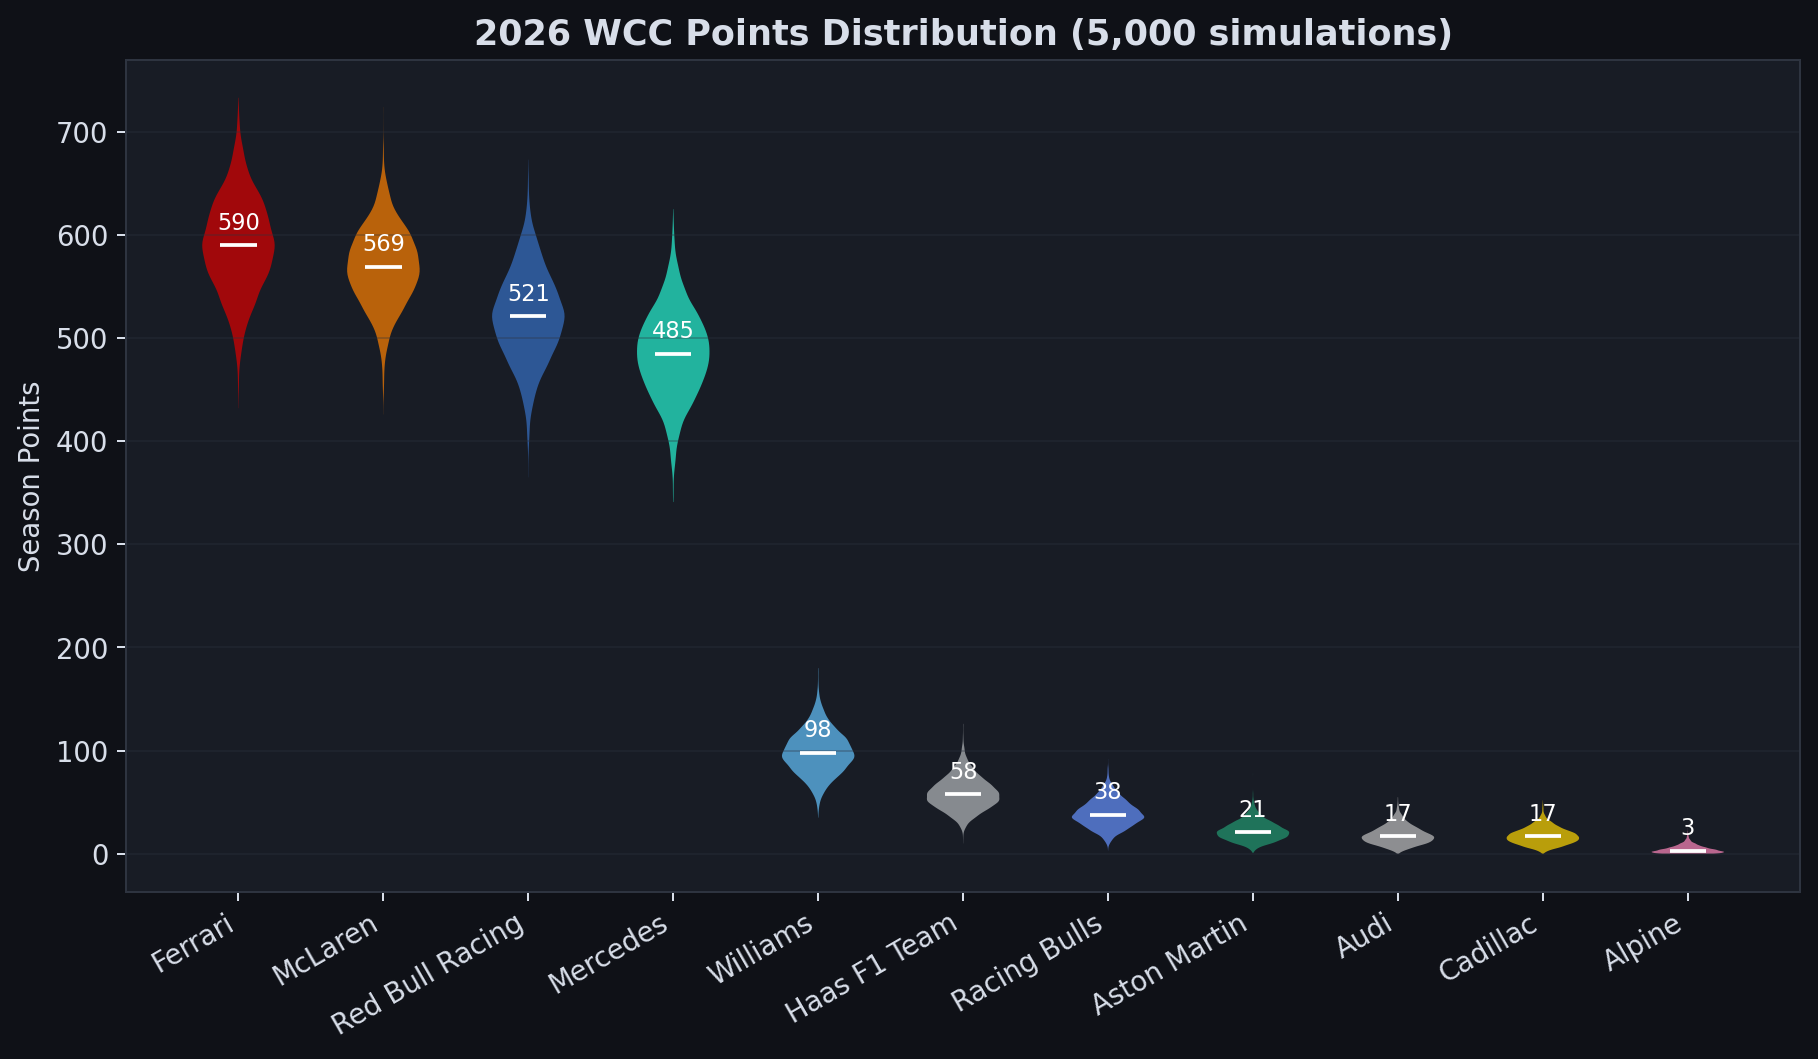
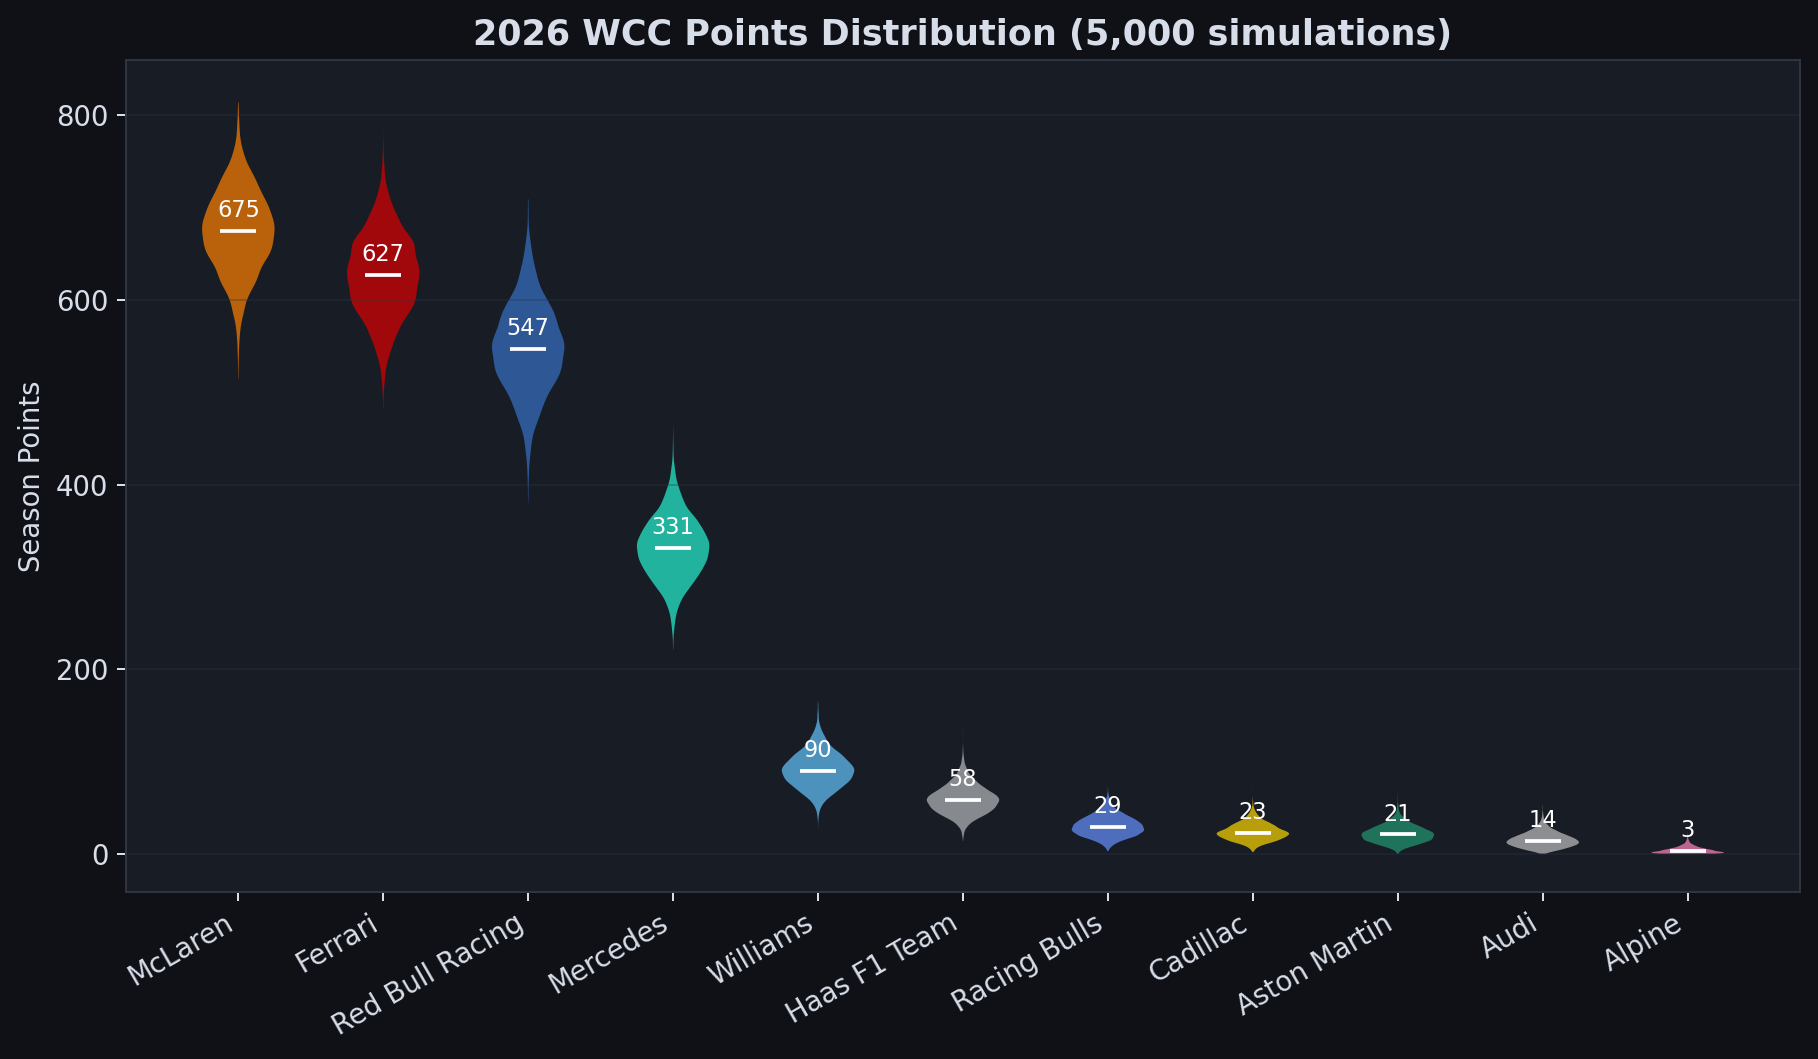
Restore v1 baseline plots and make plot generation optional
Plots now match the v1 baseline results shown in the README.
Plot generation is skipped by default; use --plots flag to regenerate.

diff --git a/main.py b/main.py
@@ -12,6 +12,7 @@ Prediction targets:
 - First Race Winner
 """
 
+import argparse
 import os
 import sys
 import json
@@ -34,10 +35,9 @@ from model import (
     generate_predictions,
     FEATURE_COLS,
 )
-from visualizations import generate_all_plots
 
 
-def main():
+def main(generate_plots=False):
     data_dir = os.path.dirname(__file__)
     race_csv = os.path.join(data_dir, "f1_race_results.csv")
     quali_csv = os.path.join(data_dir, "f1_quali_results.csv")
@@ -94,16 +94,20 @@ def main():
 
     # ── Step 5: Monte Carlo Season Simulation ─────────────────────────────
     print("\n" + "=" * 60)
-    print("Running Monte Carlo season simulation (2,000 seasons)...")
+    print("Running Monte Carlo season simulation (5,000 seasons)...")
     print("=" * 60)
     sim_results = simulate_season(position_model, dnf_model, driver_profiles, n_simulations=5000)
 
     # ── Step 6: Generate Predictions ──────────────────────────────────────
     predictions = generate_predictions(sim_results)
 
-    # ── Step 7: Generate Visualizations ─────────────────────────────────
-    plot_dir = os.path.join(data_dir, "plots")
-    generate_all_plots(sim_results, plot_dir)
+    # ── Step 7: Generate Visualizations (optional) ──────────────────────
+    if generate_plots:
+        from visualizations import generate_all_plots
+        plot_dir = os.path.join(data_dir, "plots")
+        generate_all_plots(sim_results, plot_dir)
+    else:
+        print("\n  Skipping plot generation (use --plots to regenerate)")
 
     # ── Step 8: Save Versioned Predictions ──────────────────────────────
     save_versioned_predictions(data_dir, predictions, sim_results, FEATURE_COLS)
@@ -174,4 +178,7 @@ def save_versioned_predictions(data_dir, predictions, sim_results, feature_cols)
 
 
 if __name__ == "__main__":
-    predictions = main()
+    parser = argparse.ArgumentParser(description="F1 2026 Season Predictor")
+    parser.add_argument("--plots", action="store_true", help="Regenerate visualization plots")
+    args = parser.parse_args()
+    predictions = main(generate_plots=args.plots)
